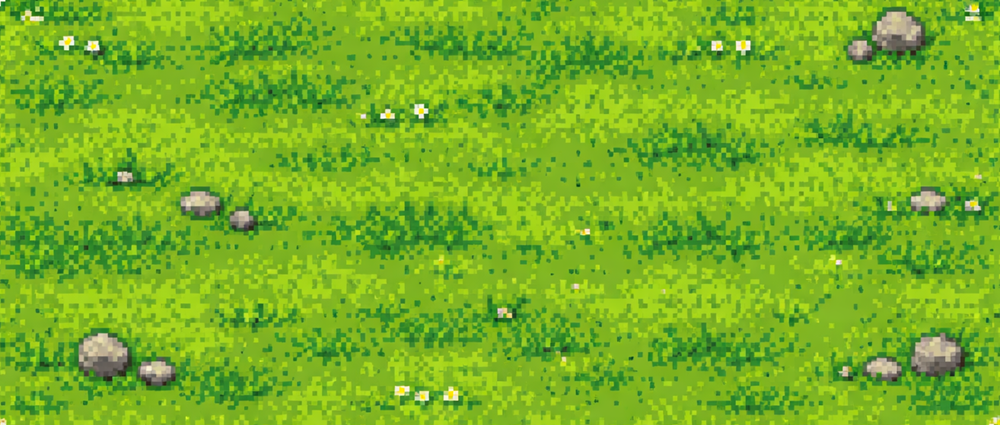
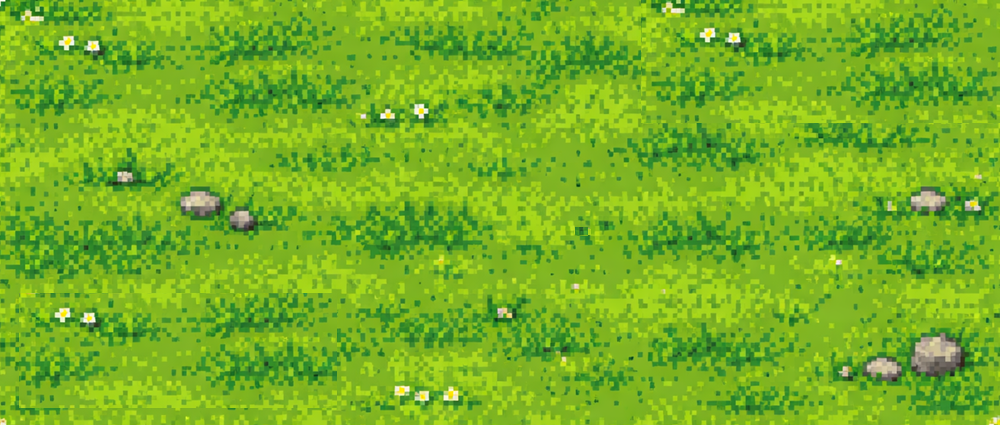
добавил зомби с анимацией и спавном вокруг игрока

Changed region(s): [[0.62, 0.0, 1.0, 0.3059], [0.0, 0.6729, 0.341, 0.9788], [0.558, 0.52, 0.589, 0.5506]]

diff --git a/game.cpp b/game.cpp
@@ -1,14 +1,28 @@
 #include "Game.hpp"
 #include <algorithm>
+#include <cmath>
 #include <optional>
+#include <random>
+#include <utility>
 
 using namespace sf;
 
 Game::Game()
     : window(sf::VideoMode::getDesktopMode(), "CursedTown", sf::Style::None)
     , view(window.getDefaultView())
+    , spawnTimer(0.f)
+    , spawnInterval(1.f)
+    , maxZombies(200)
+    , randomEngine(std::random_device{}())
+    , angleDistribution(0.f, 2.f * 3.14159265f)
+    , radiusDistribution(450.f, 700.f)
 {
-    player.setPosition(view.getCenter());
+    const sf::Vector2f mapSize = map.getSize();
+    const sf::Vector2f mapCenter(mapSize.x * 0.5f, mapSize.y * 0.5f);
+
+    player.setPosition(mapCenter);
+    view.setCenter(mapCenter);
+    zombies.reserve(maxZombies);
 }
 
 void Game::run() {
@@ -32,6 +46,7 @@ void Game::processEvents() {
 void Game::update(float dt) {
     player.handleInput(dt);
     player.update(dt);
+    updateZombies(dt);
 
     const sf::Vector2f mapSize = map.getSize();
     const sf::Vector2f halfView = view.getSize() * 0.5f;
@@ -42,10 +57,64 @@ void Game::update(float dt) {
 
     view.setCenter({ clampedX, clampedY });
 }
+
+void Game::updateZombies(float dt) {
+    spawnTimer += dt;
+    if (spawnTimer >= spawnInterval) {
+        spawnTimer = 0.f;
+        spawnZombie();
+    }
+
+    const sf::Vector2f playerPos = player.getPosition();
+    for (Zombie& zombie : zombies) {
+        zombie.update(dt, playerPos);
+    }
+}
+
+void Game::spawnZombie() {
+    if (zombies.size() >= maxZombies) {
+        const sf::Vector2f playerPos = player.getPosition();
+        std::size_t farthestIndex = 0;
+        float farthestDistanceSq = -1.f;
+
+        for (std::size_t i = 0; i < zombies.size(); ++i) {
+            const sf::Vector2f delta = zombies[i].getPosition() - playerPos;
+            const float distanceSq = delta.x * delta.x + delta.y * delta.y;
+            if (distanceSq > farthestDistanceSq) {
+                farthestDistanceSq = distanceSq;
+                farthestIndex = i;
+            }
+        }
+
+        zombies.erase(zombies.begin() + farthestIndex);
+    }
+
+    const sf::Vector2f playerPos = player.getPosition();
+    const float angle = angleDistribution(randomEngine);
+    const float radius = radiusDistribution(randomEngine);
+
+    sf::Vector2f spawnPosition = {
+        playerPos.x + std::cos(angle) * radius,
+        playerPos.y + std::sin(angle) * radius
+    };
+
+    const sf::Vector2f mapSize = map.getSize();
+    spawnPosition.x = std::clamp(spawnPosition.x, 0.f, mapSize.x);
+    spawnPosition.y = std::clamp(spawnPosition.y, 0.f, mapSize.y);
+
+    Zombie zombie(spawnPosition);
+    if (zombie.isValid()) {
+        zombies.push_back(std::move(zombie));
+    }
+}
+
 void Game::render() {
     window.clear();
     window.setView(view);
     map.draw(window);
+    for (const Zombie& zombie : zombies) {
+        zombie.draw(window);
+    }
     player.draw(window);
     window.display();
 }

diff --git a/zombie.cpp b/zombie.cpp
@@ -1,0 +1,113 @@
+#include "zombie.hpp"
+
+#include <cmath>
+
+sf::Texture Zombie::sharedTexture;
+sf::Image Zombie::sharedTextureImage;
+bool Zombie::textureReady = false;
+
+Zombie::Zombie(const sf::Vector2f& startPosition)
+    : sprite(sharedTexture)
+    , currentFrame(0)
+    , animationTimer(0.f)
+    , animationSpeed(0.15f)
+    , speed(120.f)
+    , isMoving(false)
+    , frameSize(73, 133)
+    , frameSpacing(50, 50)
+    , framesPerRow(3)
+    , direction(Down)
+{
+    if (!textureReady) {
+        textureReady = sharedTexture.loadFromFile("assets/zombie.png");
+        if (textureReady) {
+            sharedTextureImage = sharedTexture.copyToImage();
+        }
+    }
+
+    rightRowOffsets = std::vector<int>(framesPerRow, 0);
+
+    sprite.setTexture(sharedTexture);
+    sprite.setTextureRect(sf::IntRect({ 0, 0 }, frameSize));
+    sprite.setOrigin({ frameSize.x * 0.5f, frameSize.y * 0.5f });
+    sprite.setPosition(startPosition);
+}
+
+void Zombie::update(float dt, const sf::Vector2f& targetPosition) {
+    if (!isValid()) {
+        return;
+    }
+
+    sf::Vector2f delta = targetPosition - sprite.getPosition();
+    const float length = std::sqrt(delta.x * delta.x + delta.y * delta.y);
+
+    isMoving = false;
+    if (length < 0.001f) {
+        currentFrame = 0;
+        animationTimer = 0.f;
+    }
+    else {
+        isMoving = true;
+
+        if (std::fabs(delta.x) > std::fabs(delta.y)) {
+            direction = (delta.x < 0.f) ? Left : Right;
+        }
+        else {
+            direction = (delta.y < 0.f) ? Up : Down;
+        }
+
+        delta /= length;
+        sprite.move(delta * speed * dt);
+    }
+
+    if (direction == Left) {
+        sprite.setScale({ -1.f, 1.f });
+    }
+    else {
+        sprite.setScale({ 1.f, 1.f });
+    }
+
+    if (isMoving) {
+        animationTimer += dt;
+        if (animationTimer >= animationSpeed) {
+            animationTimer = 0.f;
+            currentFrame++;
+            if (currentFrame >= framesPerRow) {
+                currentFrame = 0;
+            }
+        }
+    }
+    else {
+        currentFrame = 0;
+    }
+
+    int row = 0;
+    switch (direction) {
+    case Down: row = 0; break;
+    case Up: row = 1; break;
+    case Left: row = 2; break;
+    case Right: row = 2; break;
+    }
+
+    int top = row * (frameSize.y + frameSpacing.y);
+    if (direction == Right && currentFrame >= 0 && currentFrame < static_cast<int>(rightRowOffsets.size())) {
+        top += rightRowOffsets[currentFrame];
+    }
+
+    sprite.setTextureRect(sf::IntRect(
+        { currentFrame * (frameSize.x + frameSpacing.x), top },
+        frameSize
+    ));
+}
+
+void Zombie::draw(sf::RenderWindow& window) const {
+    window.draw(sprite);
+}
+
+bool Zombie::isValid() const {
+    return textureReady && sharedTexture.getSize().x > 0 && sharedTexture.getSize().y > 0;
+}
+
+sf::Vector2f Zombie::getPosition() const {
+    return sprite.getPosition();
+}

diff --git a/zombie.hpp b/zombie.hpp
@@ -1,0 +1,35 @@
+#pragma once
+
+#include <SFML/Graphics.hpp>
+#include <vector>
+
+class Zombie {
+public:
+    Zombie(const sf::Vector2f& startPosition);
+
+    void update(float dt, const sf::Vector2f& targetPosition);
+    void draw(sf::RenderWindow& window) const;
+    bool isValid() const;
+    sf::Vector2f getPosition() const;
+
+private:
+    static sf::Texture sharedTexture;
+    static sf::Image sharedTextureImage;
+    static bool textureReady;
+
+    sf::Sprite sprite;
+
+    int currentFrame;
+    float animationTimer;
+    float animationSpeed;
+    float speed;
+    bool isMoving;
+
+    sf::Vector2i frameSize;
+    sf::Vector2i frameSpacing;
+    int framesPerRow;
+    std::vector<int> rightRowOffsets;
+
+    enum Direction { Down, Up, Left, Right };
+    Direction direction;
+};

diff --git a/game.hpp b/game.hpp
@@ -1,8 +1,12 @@
 #pragma once
 
 #include <SFML/Graphics.hpp>
+#include <cstddef>
+#include <random>
+#include <vector>
 #include "Player.hpp"
 #include "Map.hpp"
+#include "zombie.hpp"
 
 class Game {
 public:
@@ -13,6 +17,8 @@ private:
     void processEvents();
     void update(float dt);
     void render();
+    void updateZombies(float dt);
+    void spawnZombie();
 
     sf::RenderWindow window;
     sf::Clock clock;
@@ -20,4 +26,11 @@ private:
 
     Player player;
     Map map;
+    std::vector<Zombie> zombies;
+    float spawnTimer;
+    float spawnInterval;
+    std::size_t maxZombies;
+    std::mt19937 randomEngine;
+    std::uniform_real_distribution<float> angleDistribution;
+    std::uniform_real_distribution<float> radiusDistribution;
 };

diff --git a/player.cpp b/player.cpp
@@ -53,10 +53,6 @@ void Player::handleInput(float dt) {
         direction = Left;
         isMoving = true;
         sprite.setScale({ -1.f, 1.f });
-        sprite.setOrigin(sf::Vector2f(
-            static_cast<float>(frameSize.x),
-            static_cast<float>(frameSize.y)
-        ));
     }
 
     if (Keyboard::isKeyPressed(Keyboard::Key::D)) {
@@ -64,7 +60,6 @@ void Player::handleInput(float dt) {
         direction = Right;
         isMoving = true;
         sprite.setScale({ 1.f, 1.f });
-        sprite.setOrigin(sf::Vector2f(0.f, static_cast<float>(frameSize.y)));
     }
 
     sprite.move(movement);
